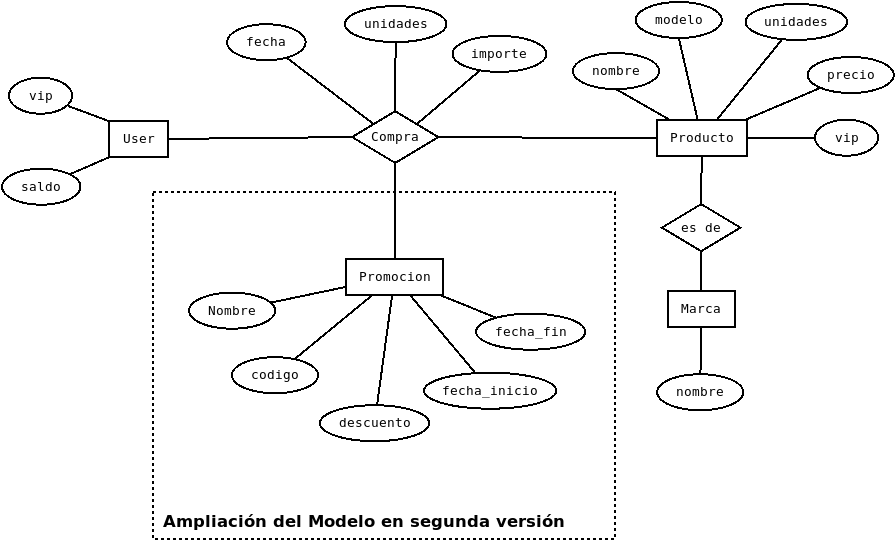
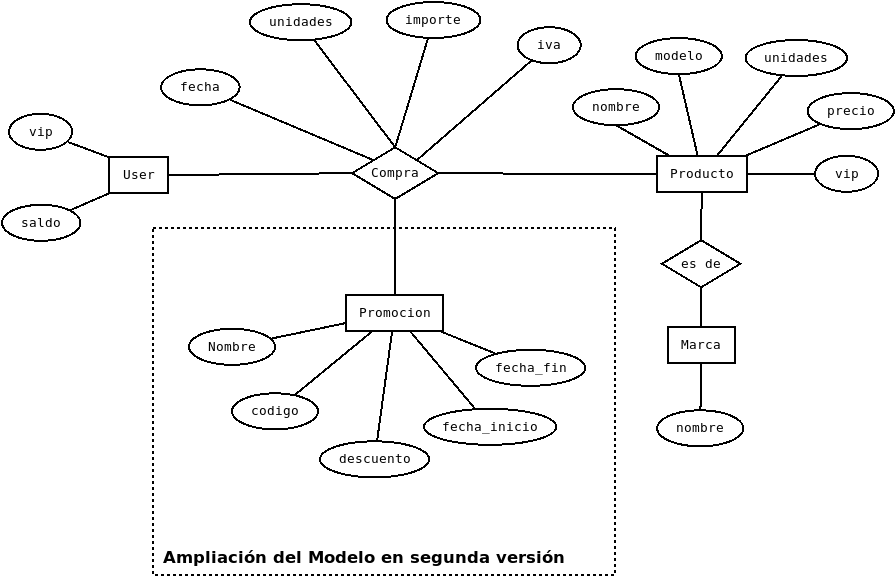
añadida ampliación e información de dump data

diff --git a/README.md b/README.md
@@ -8,9 +8,10 @@ aplicación web de venta de productos.
 
 Se solicita:
 
+## Versión 1.0
 * **Creación de los modelos** necesarios para su alta y administración 
 en django admin
-* **CRUD de productos** en la ruta tienda/admin/
+* **CRUD de productos** en la ruta tienda/admin/productos
    * **listado** de los productos de la tienda
       * Debe tener enlaces para el resto de acciones 
    * **edicion/\<int:pk>** Editar información de un producto
@@ -24,5 +25,21 @@ en django admin
   * Productos por marca. Primero muestra las marcas y 
   después un listado con los productos de la marca que se seleccione
   * Top ten productos vendidos. Mayor número de unidades vendidas
-  * Compras de un usuario
+  * Compras de un usuario con acceso al detalle de cada compra.
   * Top ten mejores clientes. Por importe gastado.
+  
+## Versión 2.0 
+* **Creación de los modelos** para la gestión de promociones
+* **CRUD de promociones** en la ruta tienda/admin/promociones/
+   * **listado** de los productos de la tienda
+      * Debe tener enlaces para el resto de acciones 
+   * **edicion/\<int:pk>** Editar información de un producto
+   * **eliminar/\<int:pk>** Debe solicitar confirmación
+   * **nuevo** Permite introducir un nuevo producto
+* **Compra de productos**. Ampliación de funcionalidades
+  * **checkout** Permite introducir un código de promoción, valida si la promoción es aplicable y muestra el descuento
+  antes de confirmar la compra.
+* **Informes** En la ruta tienda/informes/
+  * **Datos de promociones**. Muestra un informe con el número de compras realizadas
+    con cada promoción. Al final muestra un resumen con la cifra total de compras promocionadas
+    e información del descuento medio aplicado a las cuentas con promoción.
